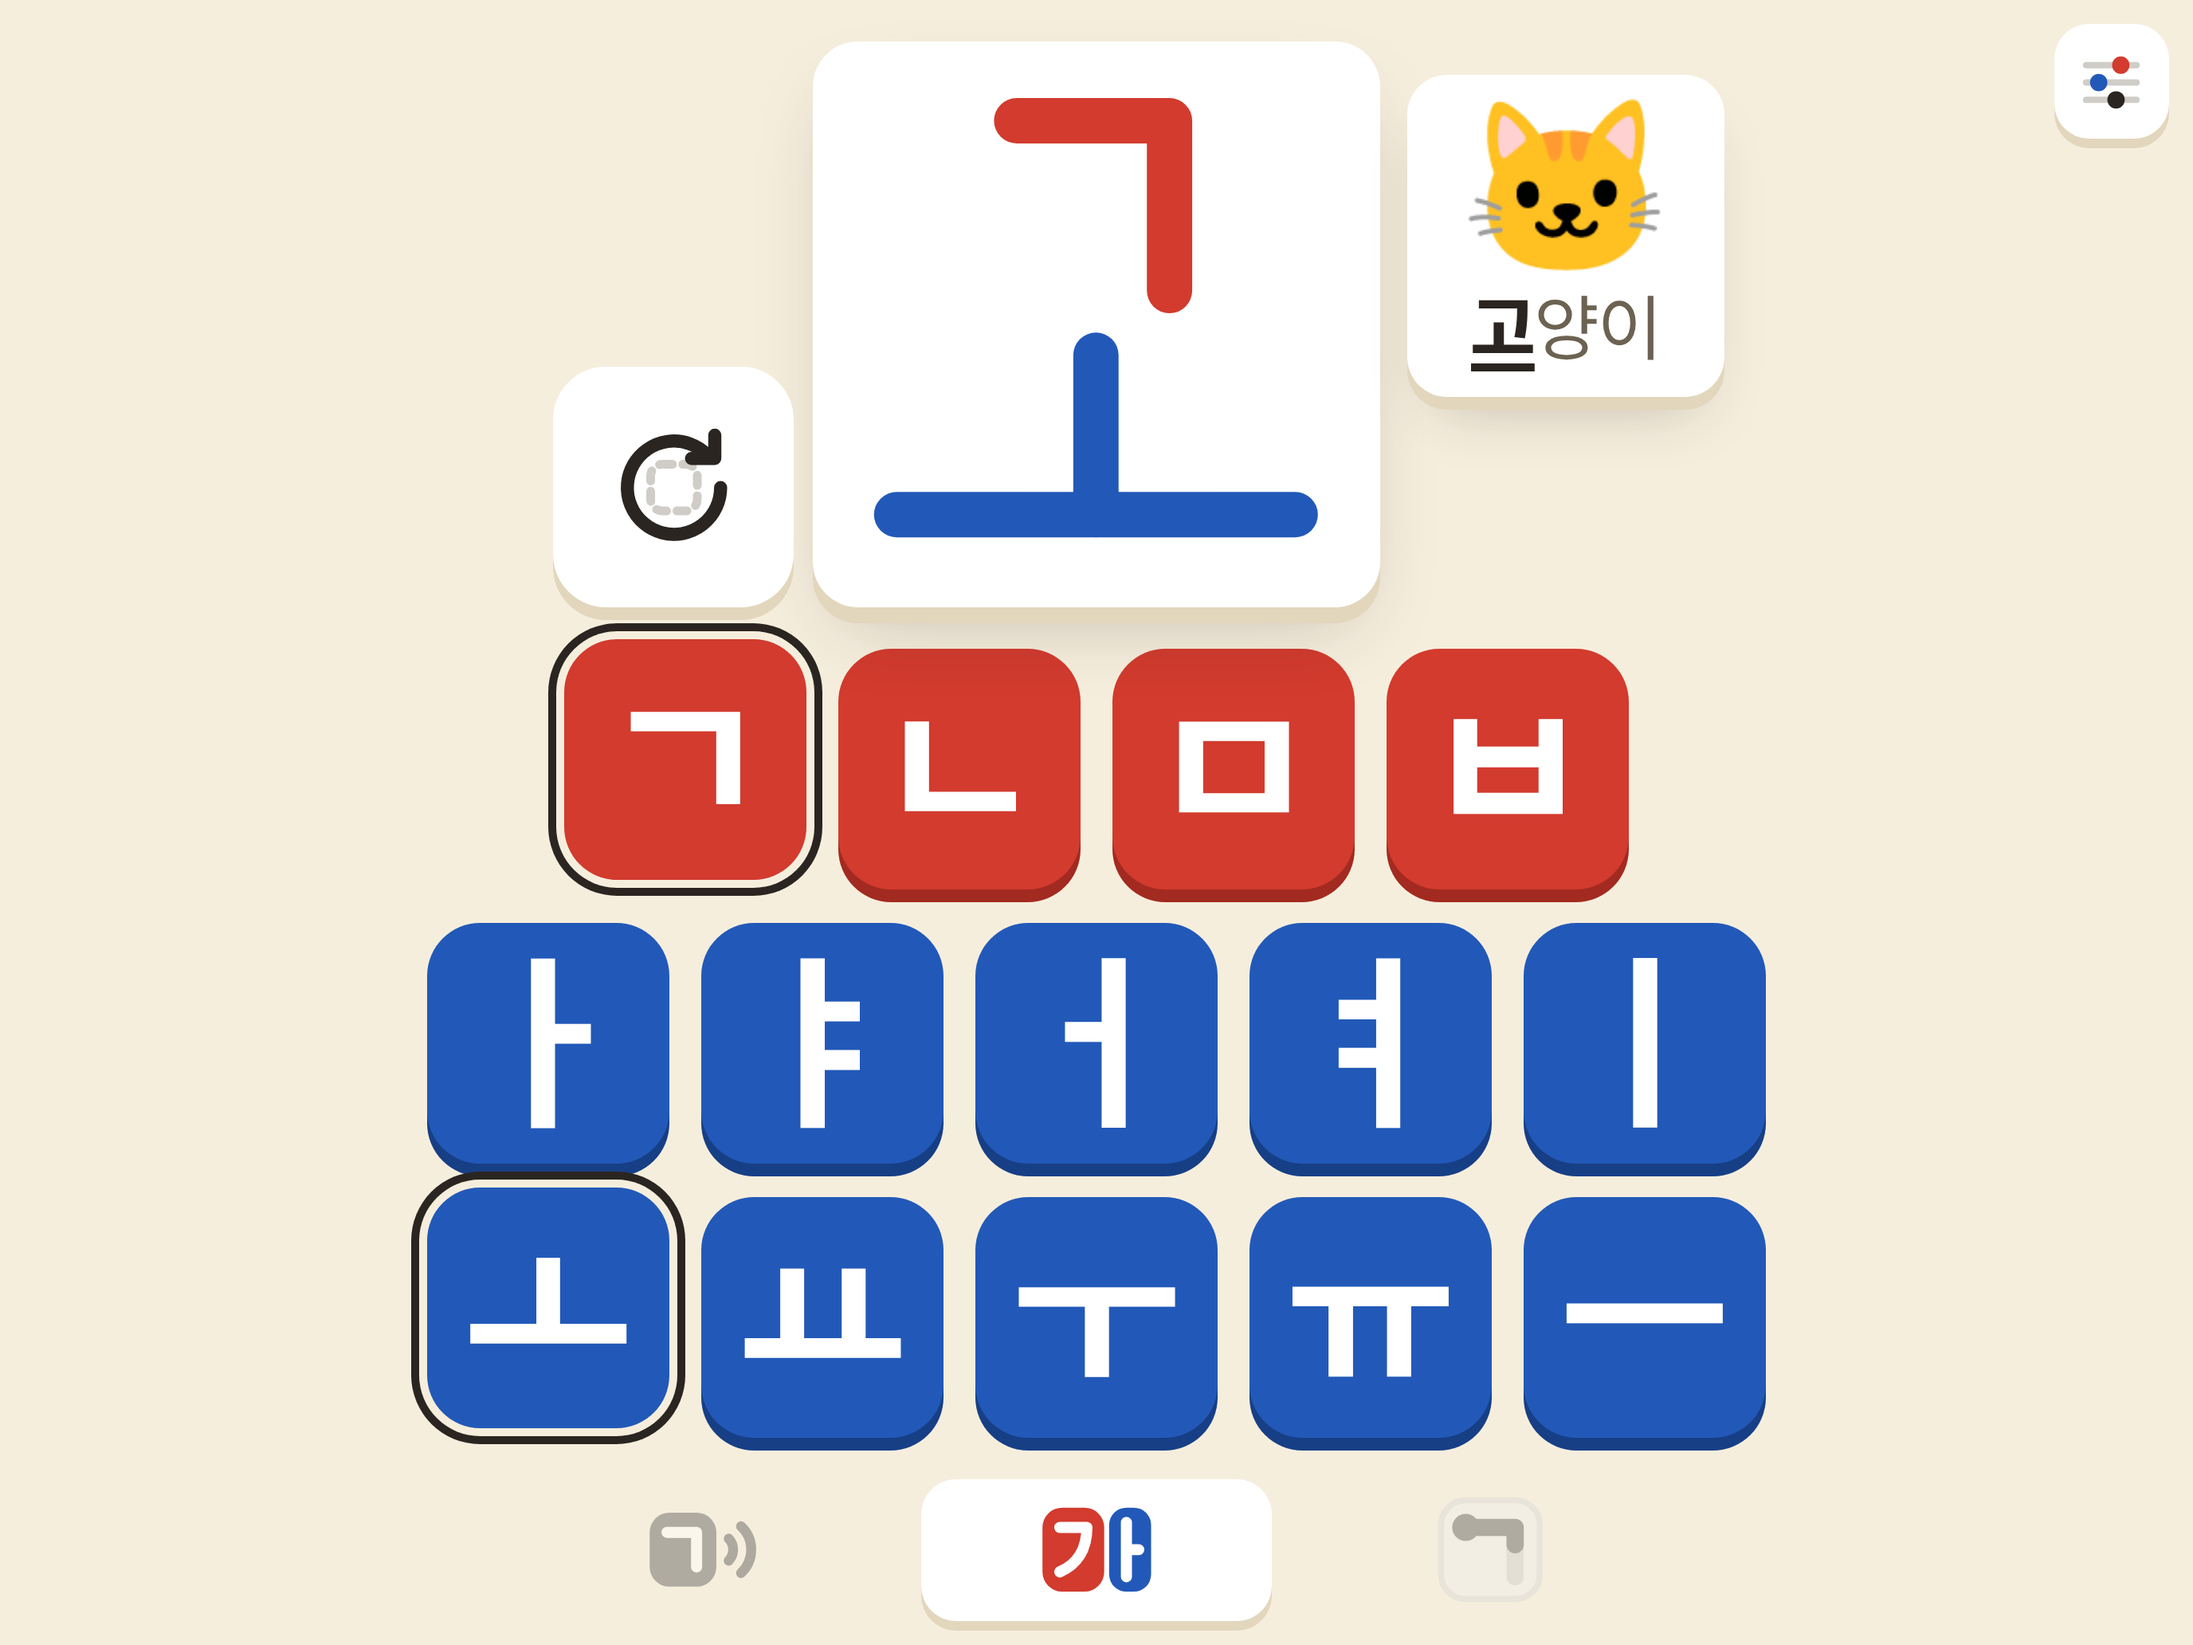
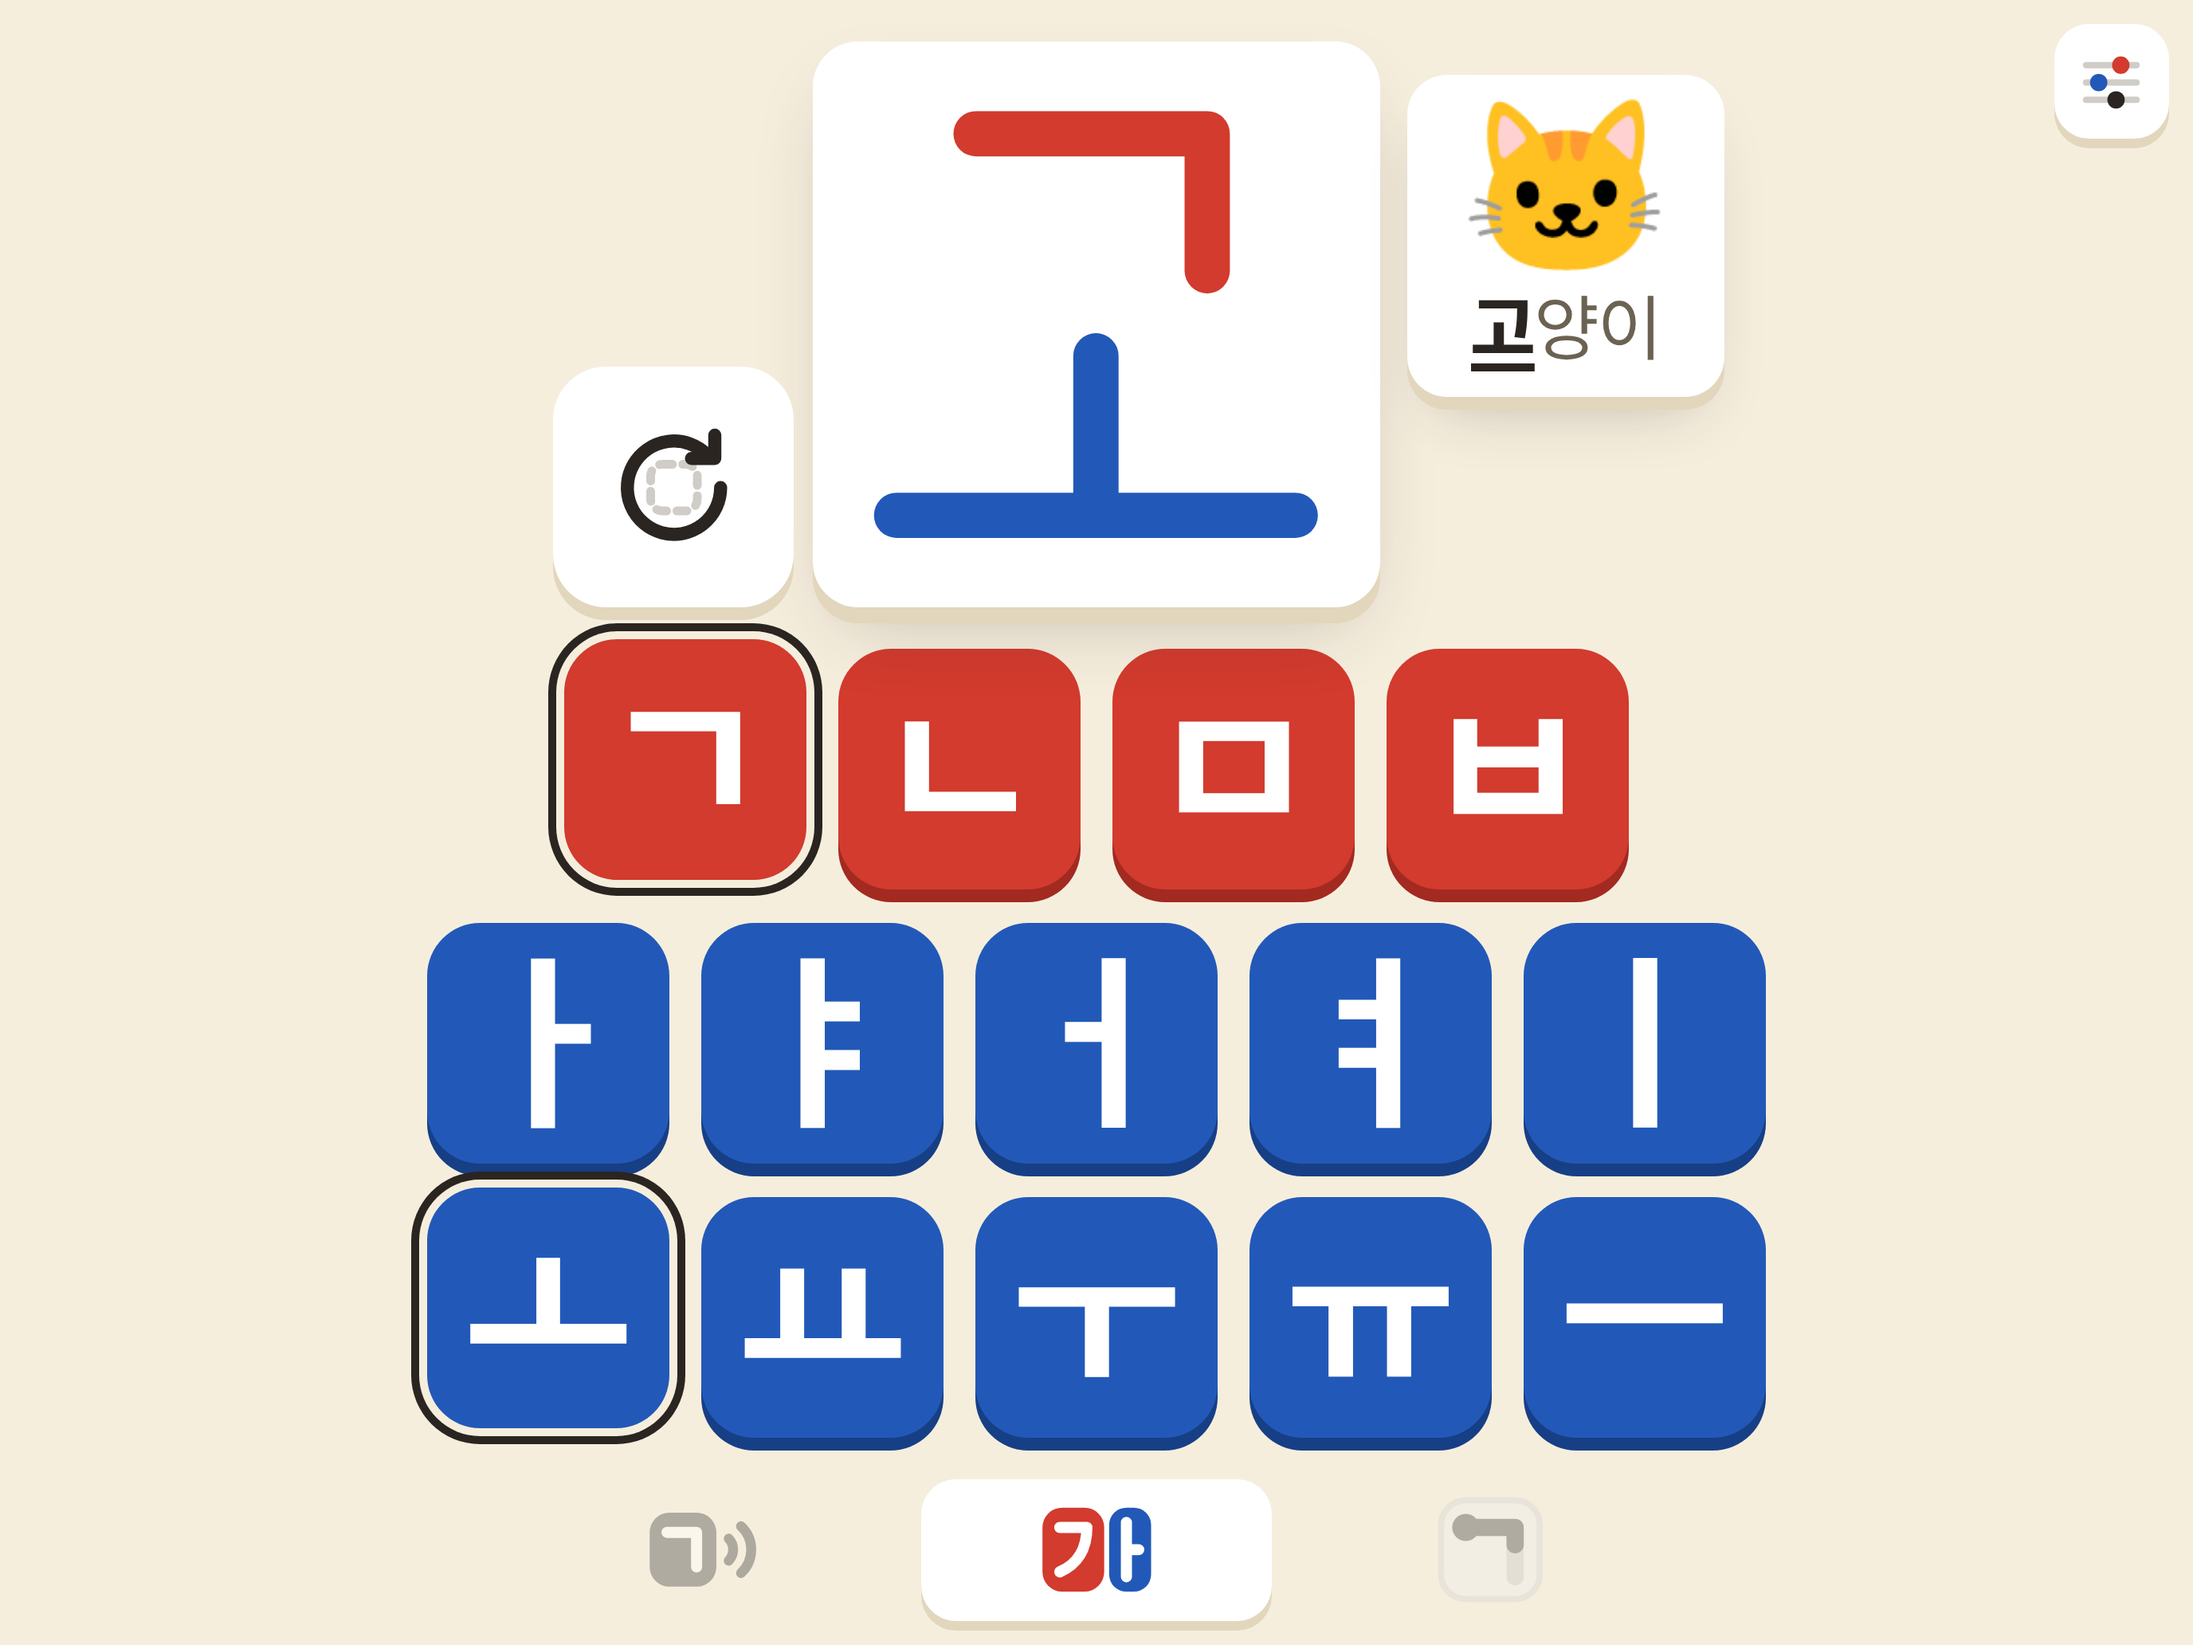
Stacked syllables (고, 구, 그...): wider, flatter consonant; pair centered with an even gap
The consonant over a horizontal vowel is drawn wider and flatter, like printed
Korean, and consonant + vowel are centered as one block with the same gap for
every vowel. Used by Build, the Write road and syllable tracing (all 178 strokes
still trace correctly). Store screenshots retaken.

Claude-Session: https://claude.ai/code/session_01N9ASmkPt1ELUKKd9M8AtxD

Changed region(s): [[0.4375, 0.062, 0.5625, 0.186]]

diff --git a/src/strokes.ts b/src/strokes.ts
@@ -117,14 +117,20 @@ export const STROKES: Record<string, Stroke[]> = {
   ㅣ: [[[50, 10], [50, 90]]],
 }
 
-// Where each part sits in the 100 x 100 frame. Each part keeps its own uniform scale in both
-// layouts, so the consonant only translates when it slides (and its strokes keep their weight).
+// Where each part sits in the 100 x 100 frame.
+// 가로모임 (side): consonant left, vowel right, fixed places.
+// 세로모임 (stack): the consonant is drawn wider and flatter (as in 고, 구, 그) and the pair is
+// centered as a block, with the same small gap under the consonant for every vowel.
 export const CONS_SCALE = 0.5
 export const VOWEL_SCALE = 0.88
+const STACK_CONS_SCALE = 0.56
+/** Gap between the consonant's lowest stroke and the vowel's highest, centerline to centerline. */
+const STACK_GAP = 15
+/** Height of a consonant in the stack, for placing a vowel before a consonant is chosen. */
+const STACK_NOMINAL_CONS = 24
+
 export const PLACE: Record<VowelLayout, { cons: [number, number]; vowel: [number, number] }> = {
-  // 가로모임: consonant left, vowel right
   side: { cons: [3, 25], vowel: [29, 6] },
-  // 세로모임: consonant top, vowel below
   stack: { cons: [25, 3], vowel: [6, 29] },
 }
 // Dashed placeholders for an empty slot, per layout (x, y, w, h).
@@ -133,12 +139,55 @@ export const SLOT: Record<VowelLayout, { cons: number[]; vowel: number[] }> = {
   stack: { cons: [20, 4, 60, 46], vowel: [8, 54, 84, 40] },
 }
 
+/** A consonant's strokes for a layout: as written alone, or wider and flatter on top of a vowel. */
+export function consonantShape(char: string, layout: VowelLayout): Stroke[] {
+  const strokes = STROKES[char] ?? []
+  if (layout === 'side') return strokes
+  return strokes.map((s) => s.map(([x, y]) => [50 + (x - 50) * 1.35, 50 + (y - 50) * 0.72] as Pt))
+}
+
+function yRange(strokes: Stroke[]): [number, number] {
+  const ys = strokes.flat().map((p) => p[1])
+  return ys.length ? [Math.min(...ys), Math.max(...ys)] : [0, 0]
+}
+
+export type Placed = { strokes: Stroke[]; x: number; y: number; k: number }
+
+/** Where the consonant and vowel go (translate x, y then scale k, in frame units). */
+export function placeSyllable(
+  cons: string | null,
+  vowel: string | null,
+  layout: VowelLayout,
+): { cons: Placed | null; vowel: Placed | null } {
+  if (layout === 'side') {
+    return {
+      cons: cons ? { strokes: STROKES[cons] ?? [], x: PLACE.side.cons[0], y: PLACE.side.cons[1], k: CONS_SCALE } : null,
+      vowel: vowel ? { strokes: STROKES[vowel] ?? [], x: PLACE.side.vowel[0], y: PLACE.side.vowel[1], k: VOWEL_SCALE } : null,
+    }
+  }
+  const cs = cons ? consonantShape(cons, 'stack') : []
+  const [c0, c1] = yRange(cs)
+  const consH = cons ? (c1 - c0) * STACK_CONS_SCALE : STACK_NOMINAL_CONS
+  const vs = vowel ? (STROKES[vowel] ?? []) : []
+  const [v0, v1] = vowel ? yRange(vs) : [30, 62]
+  const vowelH = (v1 - v0) * VOWEL_SCALE
+  const top = 50 - (consH + STACK_GAP + vowelH) / 2
+  const k = STACK_CONS_SCALE
+  return {
+    cons: cons ? { strokes: cs, x: 50 - 50 * k, y: top - c0 * k, k } : null,
+    vowel: vowel ? { strokes: vs, x: 50 - 50 * VOWEL_SCALE, y: top + consH + STACK_GAP - v0 * VOWEL_SCALE, k: VOWEL_SCALE } : null,
+  }
+}
+
 /** Strokes of a syllable on the 100 x 100 frame: consonant strokes, then vowel strokes (Korean stroke order). */
 export function syllableStrokes(cons: string, vowel: string, layout: VowelLayout): { stroke: Stroke; part: 'consonant' | 'vowel' }[] {
-  const move = (s: Stroke, [dx, dy]: [number, number], k: number): Stroke => s.map(([x, y]) => [dx + x * k, dy + y * k] as Pt)
+  const placed = placeSyllable(cons, vowel, layout)
+  const move = (s: Stroke, p: Placed): Stroke => s.map(([x, y]) => [p.x + x * p.k, p.y + y * p.k] as Pt)
+  const c = placed.cons!
+  const v = placed.vowel!
   return [
-    ...(STROKES[cons] ?? []).map((s) => ({ stroke: move(s, PLACE[layout].cons, CONS_SCALE), part: 'consonant' as const })),
-    ...(STROKES[vowel] ?? []).map((s) => ({ stroke: move(s, PLACE[layout].vowel, VOWEL_SCALE), part: 'vowel' as const })),
+    ...c.strokes.map((s) => ({ stroke: move(s, c), part: 'consonant' as const })),
+    ...v.strokes.map((s) => ({ stroke: move(s, v), part: 'vowel' as const })),
   ]
 }
 

diff --git a/src/components/JamoStrokes.tsx b/src/components/JamoStrokes.tsx
@@ -1,6 +1,6 @@
 import type { CSSProperties } from 'react'
 import type { VowelLayout } from '../jamo'
-import { CONS_SCALE, PLACE, SLOT, STROKES, VOWEL_SCALE, strokePath } from '../strokes'
+import { SLOT, STROKES, placeSyllable, strokePath } from '../strokes'
 
 // One way of drawing jamo, shared by the Build frame and the Write screen: each jamo is its
 // strokes (src/strokes.ts, 100 x 100 grid) as round-capped SVG paths. Because the consonant and
@@ -47,32 +47,26 @@ export function Syllable({
   vowel: string | null
   layout: VowelLayout
 }) {
-  const [cx, cy] = PLACE[layout].cons
-  const [vx, vy] = PLACE[layout].vowel
+  const placed = placeSyllable(cons, vowel, layout)
   const slot = SLOT[layout]
+  const c = placed.cons
+  const v = placed.vowel
   return (
     <>
-      {cons ? (
-        <g
-          className="syl-cons"
-          style={{ transform: `translate(${cx}px, ${cy}px) scale(${CONS_SCALE})` }}
-        >
-          <JamoStrokes
-            char={cons}
-            className="syl-stroke"
-            style={{ stroke: CONSONANT, strokeWidth: WEIGHT / CONS_SCALE }}
-          />
+      {c ? (
+        <g className="syl-cons" style={{ transform: `translate(${c.x}px, ${c.y}px) scale(${c.k})` }}>
+          {c.strokes.map((s, i) => (
+            <path key={i} d={strokePath(s)} className="syl-stroke" style={{ stroke: CONSONANT, strokeWidth: WEIGHT / c.k }} />
+          ))}
         </g>
       ) : (
         <rect className="syl-slot" x={slot.cons[0]} y={slot.cons[1]} width={slot.cons[2]} height={slot.cons[3]} rx={6} />
       )}
-      {vowel ? (
-        <g key={vowel} style={{ transform: `translate(${vx}px, ${vy}px) scale(${VOWEL_SCALE})` }}>
-          <JamoStrokes
-            char={vowel}
-            className="syl-stroke"
-            style={{ stroke: VOWEL, strokeWidth: WEIGHT / VOWEL_SCALE }}
-          />
+      {v ? (
+        <g key={vowel} style={{ transform: `translate(${v.x}px, ${v.y}px) scale(${v.k})` }}>
+          {v.strokes.map((s, i) => (
+            <path key={i} d={strokePath(s)} className="syl-stroke" style={{ stroke: VOWEL, strokeWidth: WEIGHT / v.k }} />
+          ))}
         </g>
       ) : (
         <rect className="syl-slot" x={slot.vowel[0]} y={slot.vowel[1]} width={slot.vowel[2]} height={slot.vowel[3]} rx={6} />

diff --git a/src/index.css b/src/index.css
@@ -404,6 +404,7 @@ body {
     0 0 0 10px var(--color-ink);
 }
 .syl-stroke {
+  transition: stroke-width 420ms, d 420ms cubic-bezier(0.34, 1.3, 0.5, 1);
   fill: none;
   stroke-linecap: round;
   stroke-linejoin: round;
